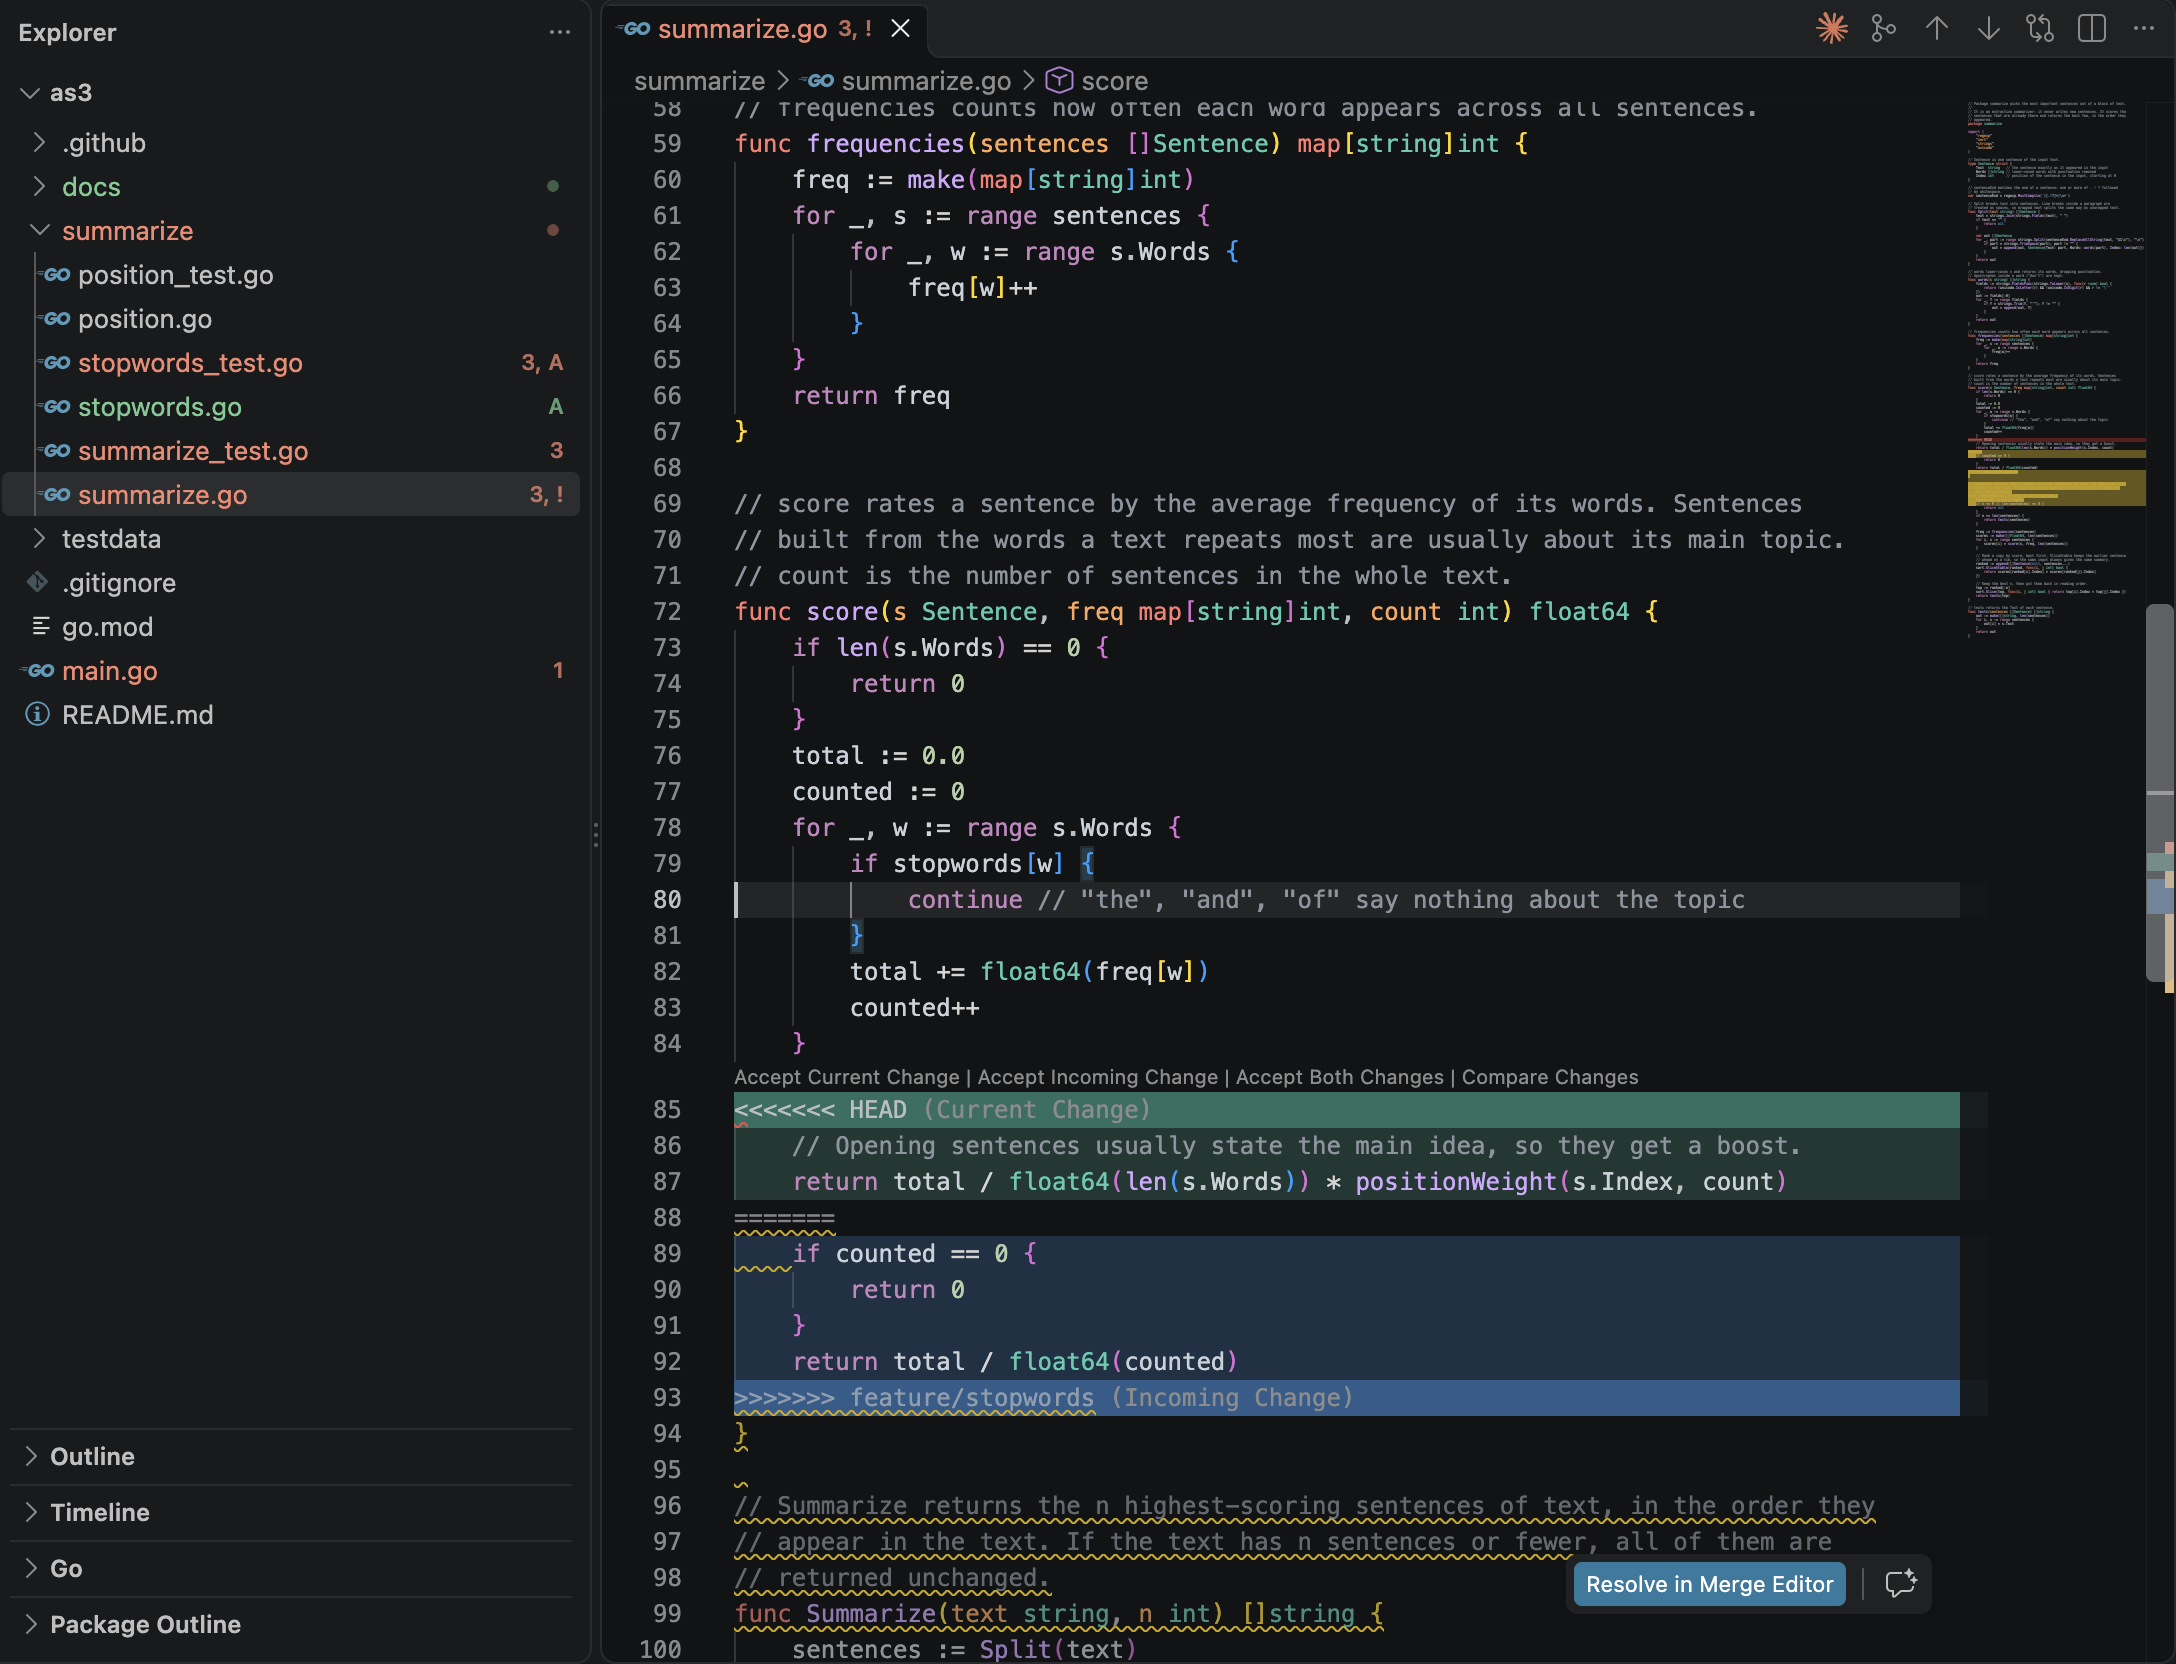
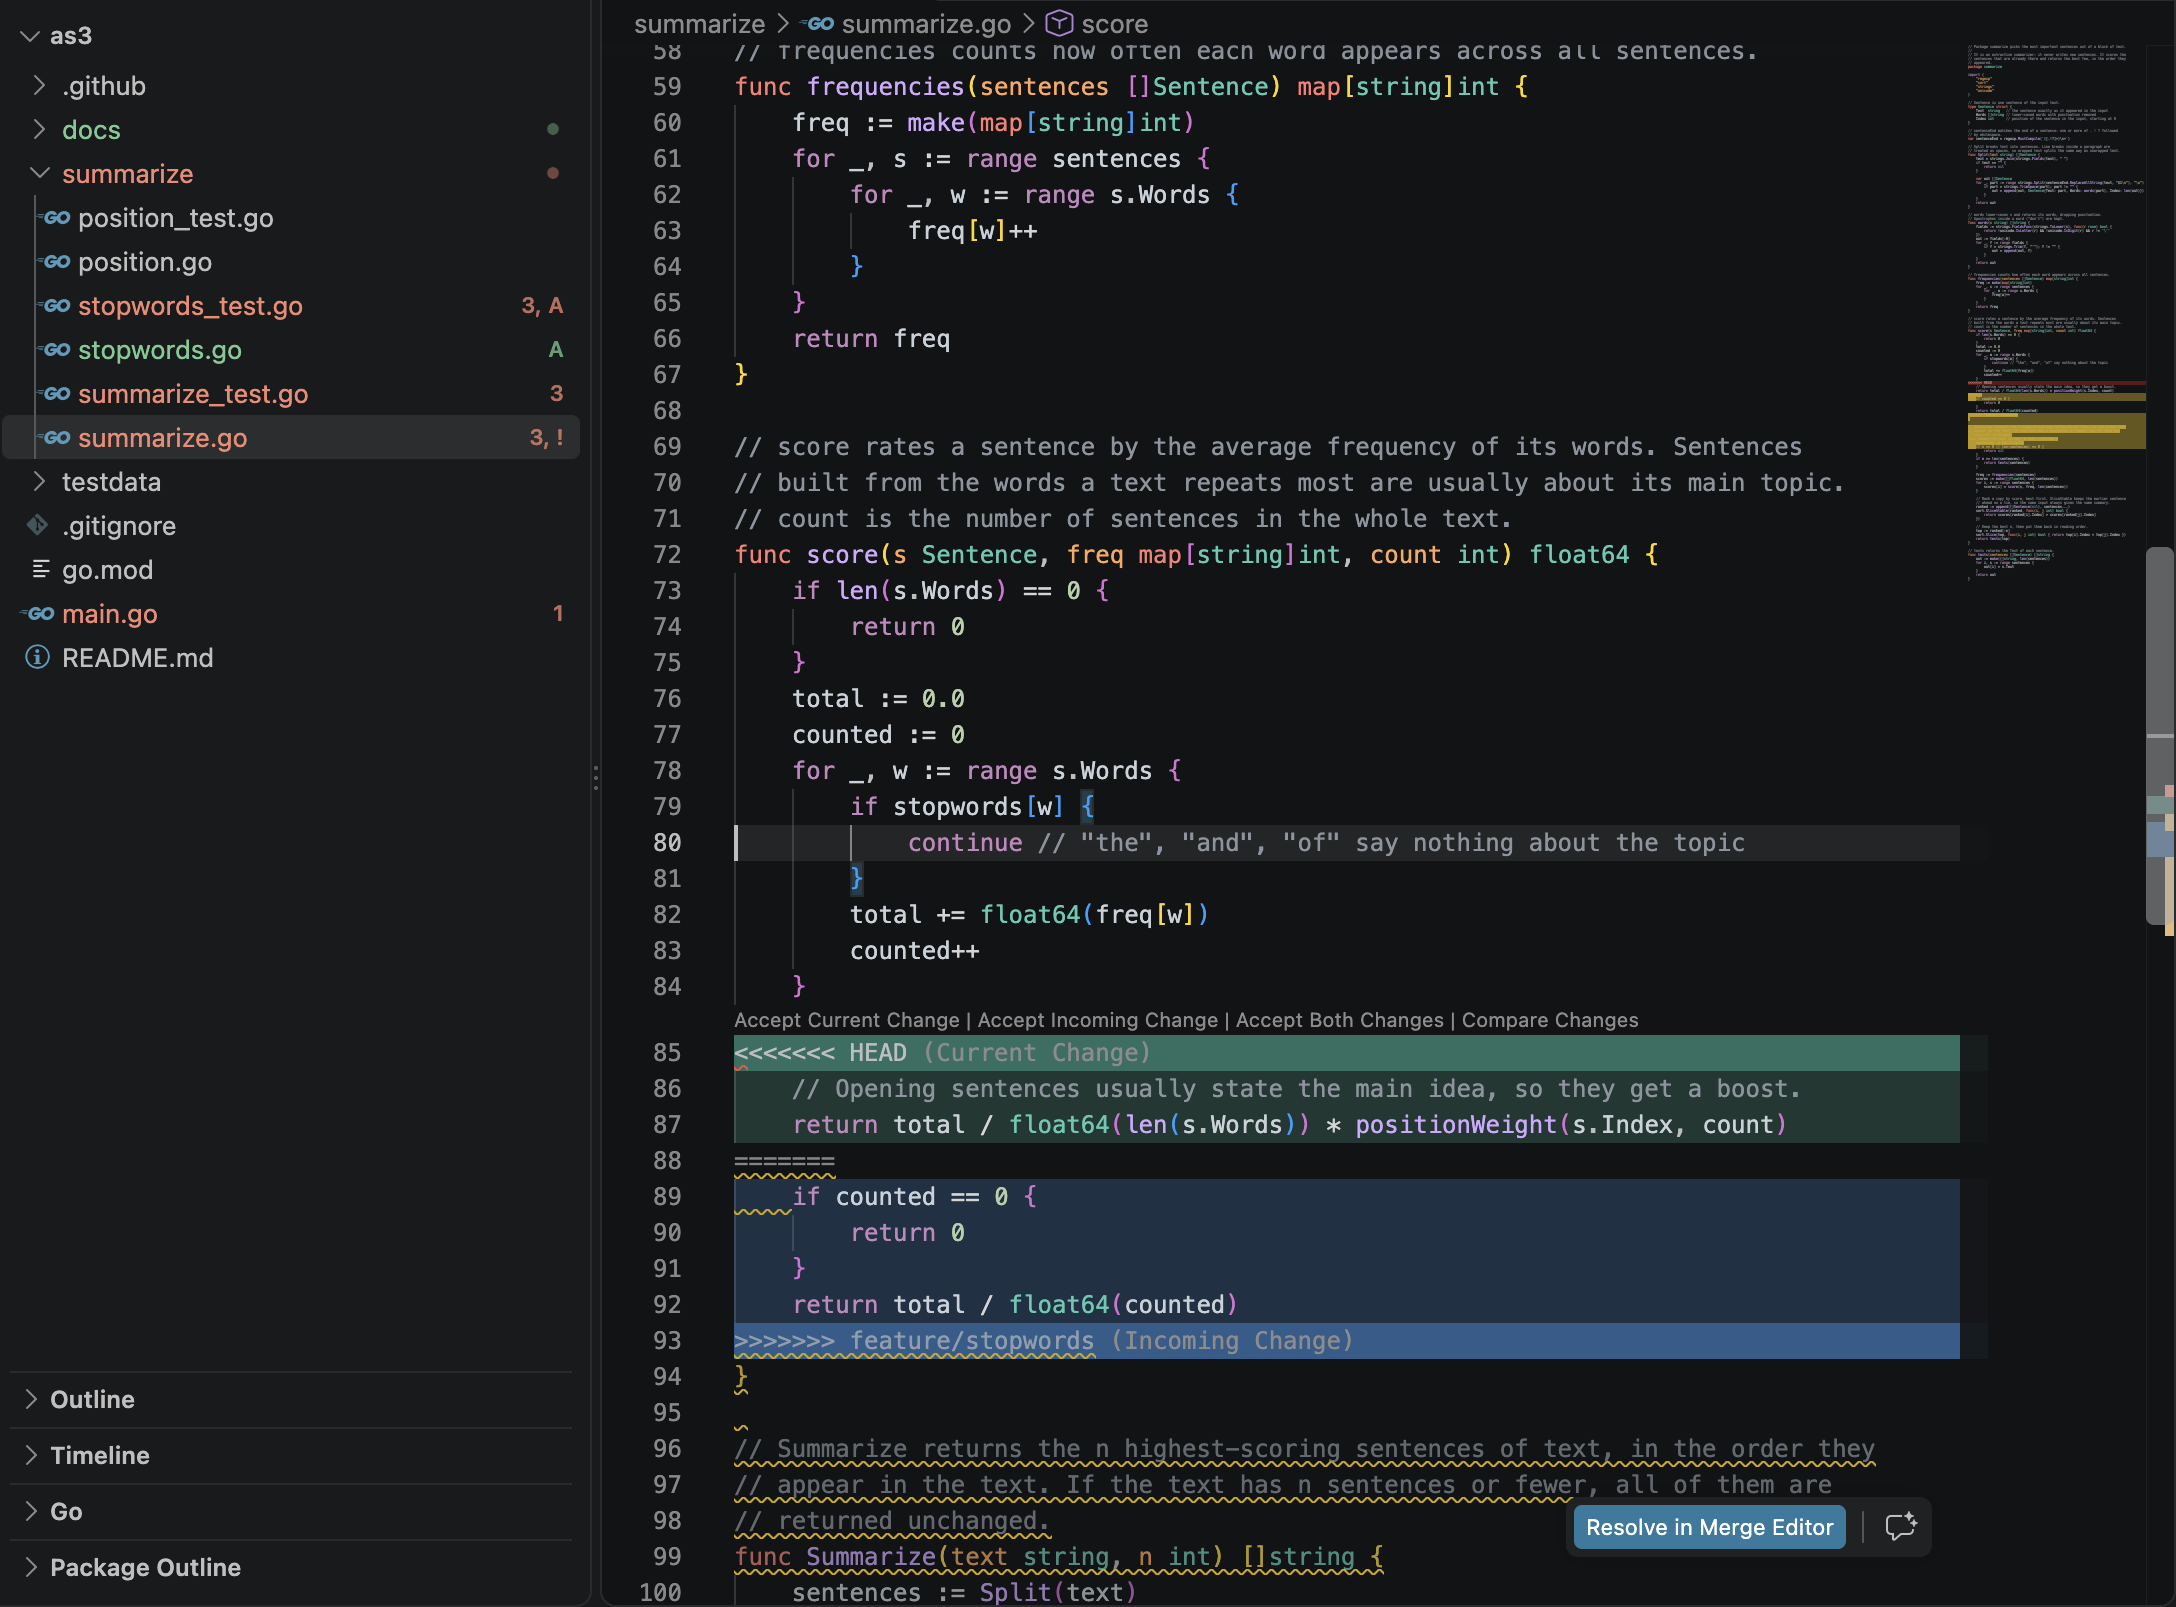
Tighten SDLC report to two pages and crop VS Code screenshot

diff --git a/docs/sdlc/report.md b/docs/sdlc/report.md
@@ -2,108 +2,75 @@
 
 **Model:** Incremental. **Supporting documents:** [requirements.md](requirements.md) (purpose, users, features) and [design.md](design.md) (model choice, plan, design, test plan).
 
-## 1. The problem and the chosen model
+## 1. Chosen model and why
 
-Students and developers often need the main points of a long text quickly.
-tldr is a small offline command-line tool that selects the most important
-sentences of a text and prints them in their original order. It serves
-three kinds of user: students skimming notes, developers reading long
-documentation, and scripts that pipe text in and out.
+tldr is a small offline command-line tool that picks the most important
+sentences of a text, for students skimming notes, developers reading long
+documentation, and scripts that pipe text through it. I chose the
+**Incremental** model with three increments, each with its own design, build,
+test and integrate cycle:
 
-I chose the **Incremental** model and split the work into three planned
-increments (plus one for the future). Each one runs its own design, build,
-test and integrate cycle and leaves a working tool behind it:
-
-1. **Core:** split, score by word frequency, print the top *N*, CLI.
+1. **Core:** split the text, score by word frequency, print the top *N*.
 2. **Position weighting:** earlier sentences count for more.
 3. **Stopword filtering:** filler words are ignored when scoring.
 
-**Why Incremental fits:**
-
 - **Scope:** small, with a clear core and optional refinements. The core
   ships first, and each refinement is added without redesigning it.
-- **Risk:** low technical risk overall. The real risks are a scoring rule
-  that makes summaries worse, and two changes to the scoring code clashing.
-  Testing and integrating one increment at a time isolates both.
-- **Time:** one person, about a week, with a hard deadline. A usable tool
-  exists after the first increment.
+- **Risk:** low technical risk. The real risks are a rule that makes
+  summaries worse, and two changes to the scoring code clashing. Testing and
+  integrating one increment at a time isolates both.
+- **Time:** one person, one week, a hard deadline. A usable tool exists
+  after the first increment.
 
-Waterfall would have delivered nothing until the end and left all
-integration to one late phase. Spiral's formal risk cycles are too heavy for
-a tool this size. RAD depends on user workshops and interface prototyping,
-and tldr has no graphical interface.
+Waterfall delivers nothing until the end, Spiral's formal risk cycles are
+too heavy for a tool this size, and RAD needs user workshops and interface
+prototypes that a command-line tool does not have.
 
 ## 2. Development phases
 
-| Phase | What was produced |
-| --- | --- |
-| **Requirements** | Purpose, users and scope; functional requirements FR1–FR8 and non-functional requirements NFR1–NFR5; acceptance criteria. |
-| **Planning** | Increment plan with estimates and milestones; each increment mapped to requirements and to its own Git branch. Increments 2 and 3 were planned in parallel, with their integration flagged in advance as a risk. |
-| **Design** | Pipeline architecture (input → split → count → score → rank → output), a `Sentence` data type, and the scoring formula for each increment. All scoring lives in one function, so each increment changes exactly one place. |
-| **Test design** | Test cases T1–T10 traced to increments, at three levels: unit tests, a CLI acceptance check on a sample text, and regression testing on every push through CI. |
-| **Integration** | Increments merged into `main` one at a time. Every merge had to pass the full test suite. |
+1. **Requirements:** purpose, users, scope, FR1–FR8, NFR1–NFR5, acceptance criteria.
+2. **Planning:** increments mapped to requirements, estimates, milestones and one Git branch each. The integration of increments 2 and 3 was flagged as a risk in advance.
+3. **Design:** a pipeline (input → split → count → score → rank → output), a `Sentence` type, and a scoring formula per increment, all in one `score()` function.
+4. **Test design:** cases T1–T10 traced to increments, run as unit tests, a CLI acceptance check, and CI on every push.
+5. **Integration:** increments merged into `main` one at a time, each only after the full suite passed.
 
 ## 3. Testing outcomes
 
-The design was taken through to code as part of the Git exercise, so the
-test plan could be executed. Results:
+The design was later built for the Git exercise, so the test plan was run:
 
-| Tests | Increment | Result |
-| --- | --- | --- |
-| T1–T5 (splitting, ordering, edge cases, topic choice) | 1 | Pass |
-| T6–T7 (position weight values; earlier copy scores higher) | 2 | Pass on its branch |
-| T8–T9 (stopword-only sentence scores 0; stopwords do not dilute) | 3 | Pass on its branch |
-| T10 (all tests after integrating 2 and 3) | 2 + 3 | **First run failed to build**; passed after the fix in section 4 |
-
-The final state is 9 test functions (14 results including subtests), all
-passing locally and on GitHub Actions for every push.
-
-**Acceptance check** (`tldr -n 3` on the sample text about version control):
-
-| After increment | Sentences chosen |
-| --- | --- |
-| 1 (core) | "Git took a different approach." · "Branching in Git is cheap…" · "That pause is called a merge conflict…" |
-| 1 + 2 + 3 | "Version control is a system that records changes to files over time…" · "Git took a different approach." · "In Git, every clone is a complete copy of the repository…" |
-
-The core alone favoured short sentences full of common words. With both
-refinements, the summary opens with the text's actual definition of version
-control and includes the key idea of distributed version control.
+- **T1–T5** (increment 1) passed. **T6–T7** (increment 2) and **T8–T9**
+  (increment 3) passed on their own branches.
+- **T10** (all tests after integrating 2 and 3) **failed to build on its
+  first run**, then passed after the fix in section 4. The final suite has 9
+  tests (14 results with subtests), all passing locally and on CI.
+- **Acceptance:** on the sample text, the core alone picked short sentences
+  full of common words ("Git took a different approach."). With all three
+  increments, the summary opens with the text's actual definition of version
+  control.
 
 ## 4. Conflict-resolution process
 
-**Integration conflict.** Increments 2 and 3 were built in parallel and
-both rewrote the last line of `score()`. Increment 2 was merged first. When
-increment 3 was merged, Git applied its non-overlapping changes
-automatically but stopped on that line with a conflict. The process I
-followed:
+Increments 2 and 3 both rewrote the last line of `score()`. After increment 2
+was merged, merging increment 3 produced a conflict on that line. Git had
+already merged everything else. I resolved it in four steps:
 
-1. Inspect with `git status` and `git diff` before changing anything.
-2. Decide on intent, not on sides. Neither version was wrong, so the
-   resolution was a new line combining both rules: skip stopwords, divide
-   by the words actually counted, then apply the position weight.
-3. Run the full test suite before committing. It exposed a second,
-   *semantic* conflict that Git could not see: increment 3's tests called
-   the old two-argument `score()`. I fixed those calls.
-4. Commit the merge only once everything passed, then let CI confirm it.
+1. Inspect with `git status` and `git diff` before editing.
+2. Decide on intent, not on sides. Neither version was wrong, so the fix was a new line combining both rules: skip stopwords, divide by the words counted, then apply the position weight.
+3. Run the full test suite before committing. It exposed a second, *semantic* conflict that Git could not see: increment 3's tests still called the old two-argument `score()`.
+4. Fix those calls, commit the merge once everything passed, and let CI confirm it.
 
-**Requirement trade-off.** Position weighting (FR6) and stopword filtering
-(FR7) could pull against each other: a short opening sentence made mostly of
-stopwords would get a large position boost on almost no content. Applying
-the stopword filter first, and returning 0 when nothing is left, settles
-this. The boost multiplies real content, never filler.
+The ordering also settles a trade-off between the two requirements. Filtering
+stopwords before applying the position boost means a short opening sentence
+of filler words cannot win on position alone.
 
 ## 5. Lessons learned
 
-- **Plan for integration, not just for features.** Putting all scoring in one
-  function kept the design simple, but it made a conflict between
-  increments 2 and 3 certain. Because the plan named it in advance, it cost
-  minutes rather than a surprise.
-- **Tests are part of the design.** Writing T1–T10 before coding gave each
-  increment a clear definition of done. The integration test (T10) caught a
-  problem that a clean-looking merge hid.
-- **Incremental delivery reduces deadline risk.** A working summarizer
-  existed after increment 1. Every later increment was an improvement, never
-  a prerequisite.
-- **Next time:** bring `main` into a feature branch before the final merge,
-  so integration conflicts are resolved and tested on the branch, and `main`
-  only ever receives code that has already passed.
+- **Plan for integration, not just features.** Keeping all scoring in one
+  function made the clash between increments 2 and 3 certain. Naming it in
+  the plan made it cheap.
+- **Tests are part of the design.** T10 caught a problem that a clean-looking
+  merge hid.
+- **Incremental delivery lowers deadline risk.** Every increment after the
+  first was an improvement, never a prerequisite.
+- **Next time:** merge `main` into the feature branch first, so conflicts are
+  resolved and tested there before reaching `main`.
